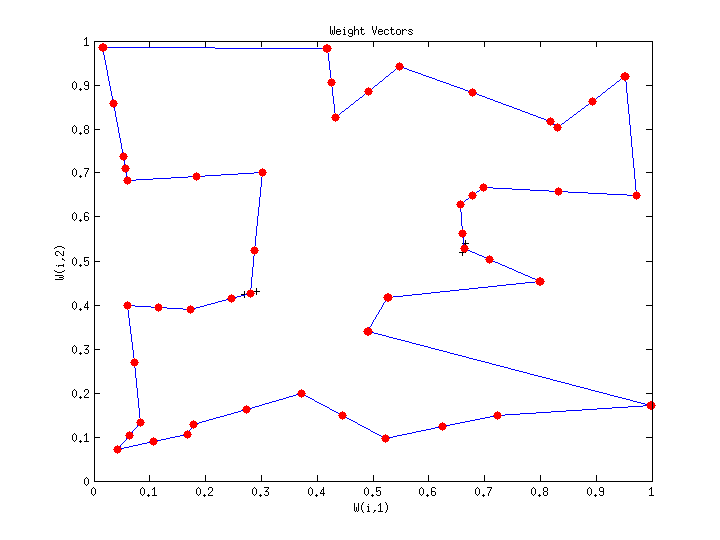
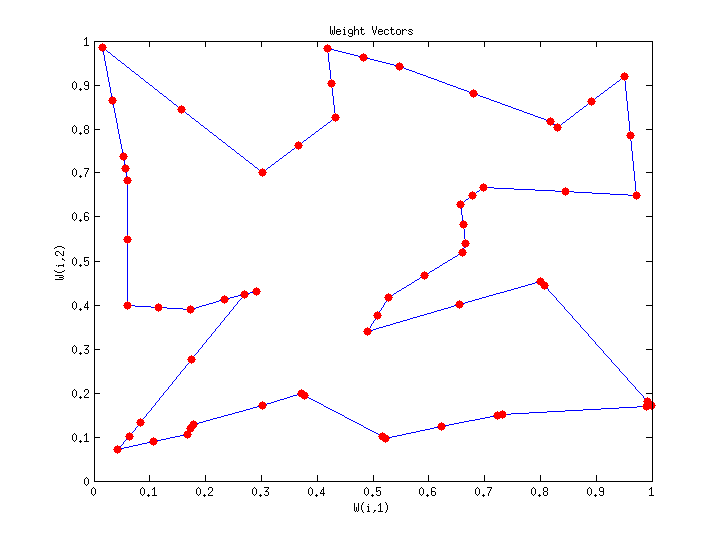
Add new topologies and rerun with 1000 epochs and final LR 0.01

diff --git a/Askisi2/runTopologies.m b/Askisi2/runTopologies.m
@@ -5,8 +5,8 @@ global IW distances;
 % Create SOM for different topologies and distance functions
 tic;
 
-for topology={@gridtop, @hexagonalTopology}
-    for distFunction={@dist, @mandist};
+for topology={@gridtop, @hextop, @randtop, @hexagonalTopology}
+    for distFunction={@boxdist, @dist, @linkdist, @mandist};
         somTrainParameters(orderLR, orderEpochs, tuneLR, topology{1}, distFunction{1});
         
         top = functions(topology{1});

diff --git a/Askisi2/main.m b/Askisi2/main.m
@@ -5,8 +5,8 @@ close all; clear; clc;
 
 %% Set SOM parameters
 orderLR = 0.9;
-orderEpochs = 250;
-tuneLR = 0.1;
+orderEpochs = 1000;
+tuneLR = 0.01;
 
 %% 2A2 Create SOMs with different topologies
 runTopologies(datasets, dataset_names, orderLR, orderEpochs, tuneLR);
